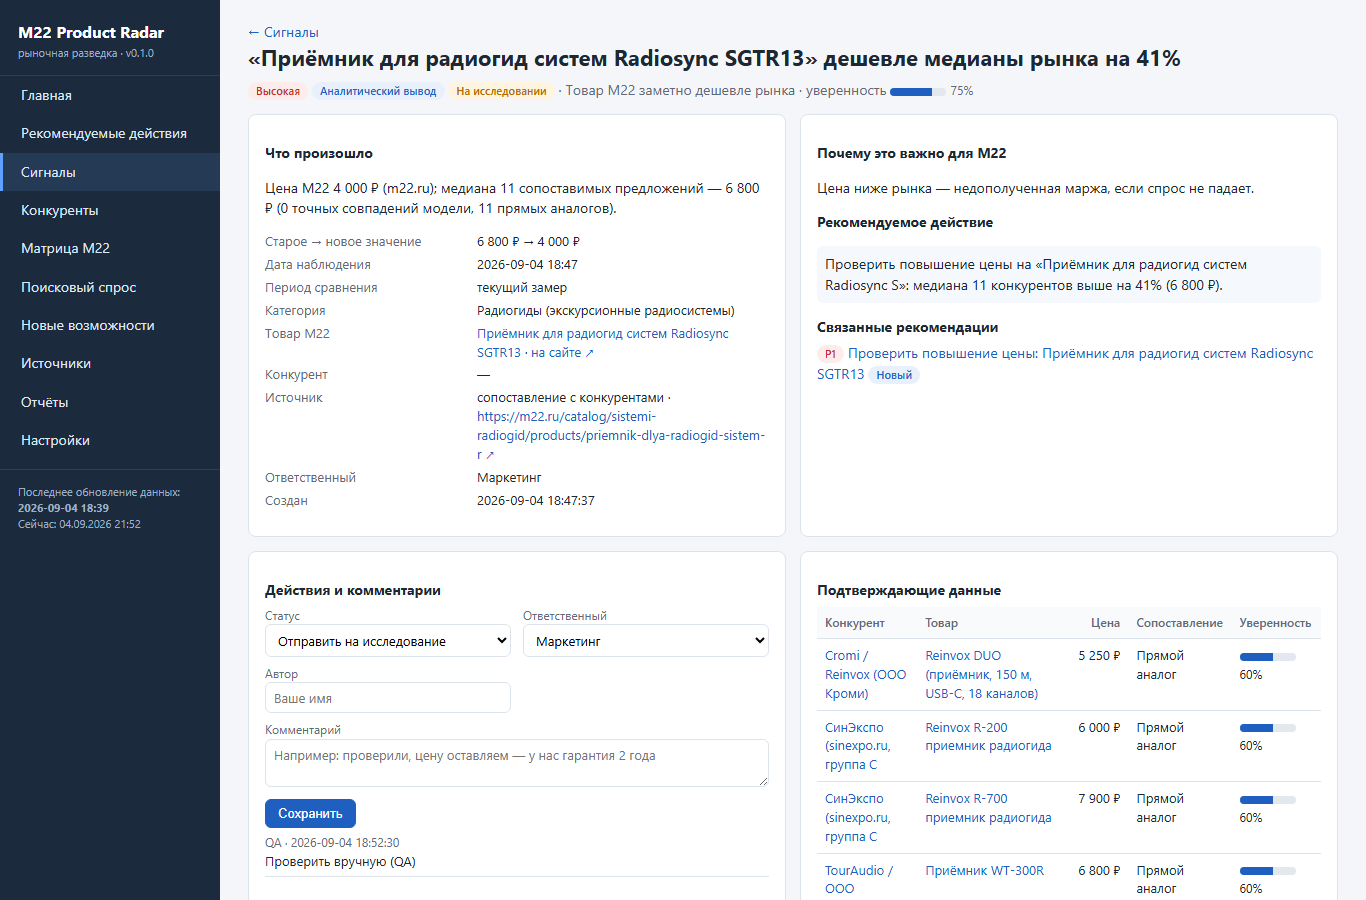
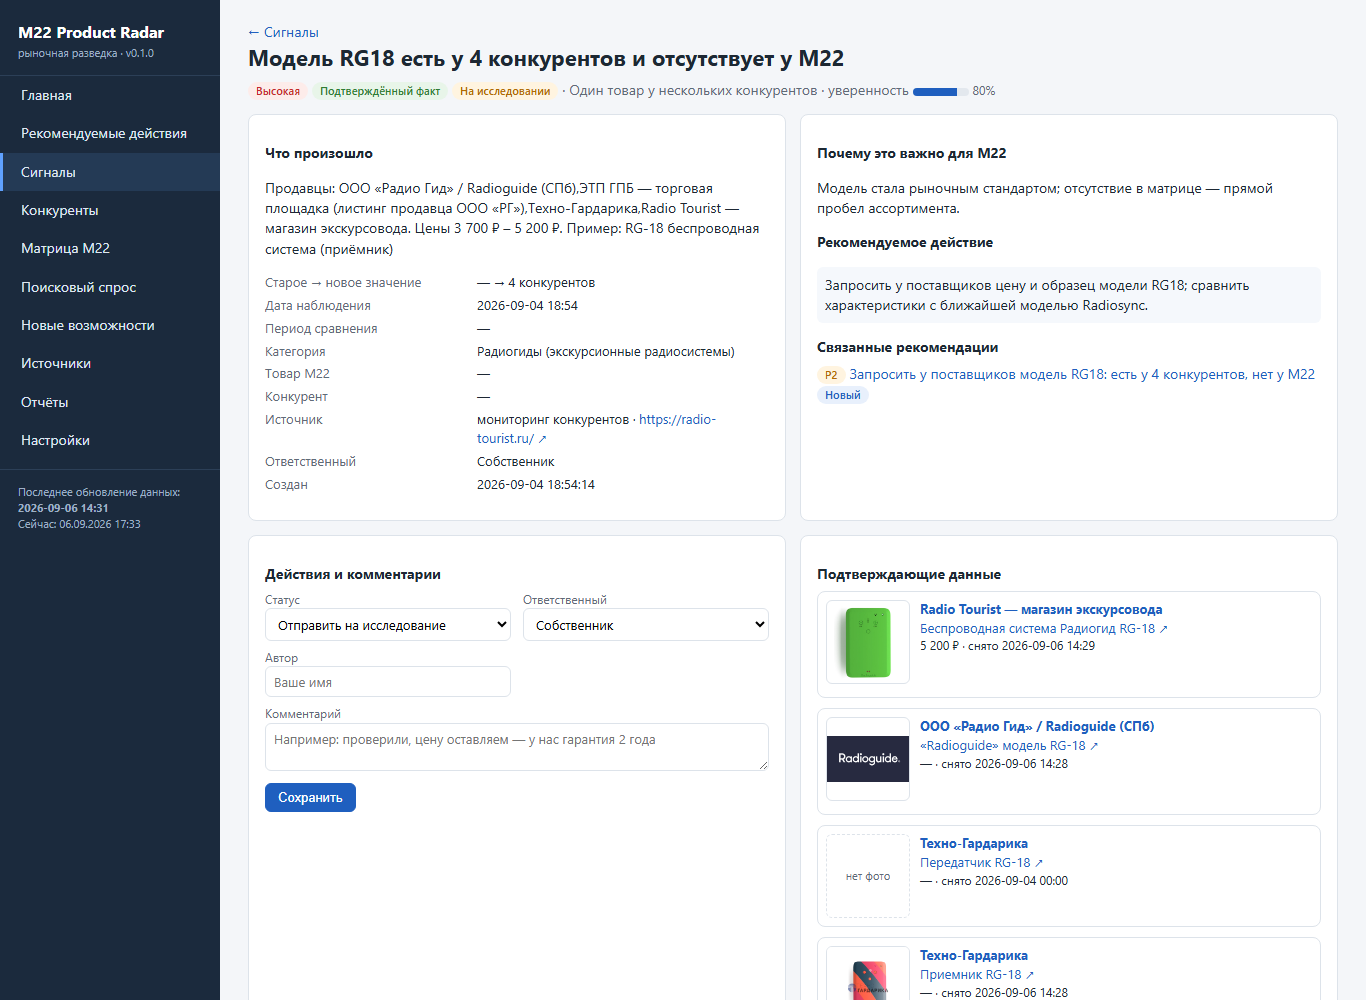
Fixed thumbnail size for competitor photos, cache-busting for static assets

diff --git a/radar/web/templates/signal_detail.html b/radar/web/templates/signal_detail.html
@@ -14,7 +14,7 @@
       <dt>Категория</dt><dd>{{ CATEGORY_NAMES.get(s.category_slug, s.category_slug or '—') }}</dd>
       <dt>Товар M22</dt><dd>{% if s.m22_product_id %}<a href="/matrix/{{ s.m22_product_id }}">{{ s.m22_name }}</a> · <a href="{{ s.m22_url }}" target="_blank" rel="noopener">на сайте ↗</a>{% else %}—{% endif %}</dd>
       <dt>Конкурент</dt><dd>{% if s.competitor_id %}<a href="/competitors/{{ s.competitor_id }}">{{ s.competitor_name }}</a>{% else %}—{% endif %}</dd>
-      {% if cp %}<dt>Товар конкурента</dt><dd>{% if cp.image_url %}<img src="{{ cp.image_url }}" alt="" class="thumb" referrerpolicy="no-referrer"> {% endif %}{{ cp.name }} — {{ cp.price | money }} · <a href="{{ cp.url }}" target="_blank" rel="noopener">страница ↗</a> · снято {{ cp.fetched_at | dt }}</dd>{% endif %}
+      {% if cp %}<dt>Товар конкурента</dt><dd>{% if cp.image_url %}<img src="{{ cp.image_url }}" alt="" class="thumb" referrerpolicy="no-referrer" width="48" height="48" style="width:48px;height:48px;object-fit:contain"> {% endif %}{{ cp.name }} — {{ cp.price | money }} · <a href="{{ cp.url }}" target="_blank" rel="noopener">страница ↗</a> · снято {{ cp.fetched_at | dt }}</dd>{% endif %}
       {% if s.query_text %}<dt>Запрос</dt><dd>{{ s.query_text }}</dd>{% endif %}
       <dt>Источник</dt><dd>{{ s.source or '—' }} {% if s.source_url %}· <a href="{{ s.source_url }}" target="_blank" rel="noopener">{{ s.source_url[:80] }} ↗</a>{% endif %}</dd>
       <dt>Ответственный</dt><dd>{{ s.owner or '—' }}</dd>
@@ -36,7 +36,7 @@
       <div class="offers">
         {% for it in evidence.get('items') %}
         <div class="offer">
-          {% if it.image %}<a href="{{ it.url }}" target="_blank" rel="noopener"><img src="{{ it.image }}" alt="" loading="lazy" referrerpolicy="no-referrer"></a>{% else %}<div class="noimg">нет фото</div>{% endif %}
+          {% if it.image %}<a href="{{ it.url }}" target="_blank" rel="noopener"><img src="{{ it.image }}" alt="" loading="lazy" referrerpolicy="no-referrer" width="84" height="84" style="width:84px;height:84px;object-fit:contain"></a>{% else %}<div class="noimg">нет фото</div>{% endif %}
           <div class="ob">
             <div><a href="/competitors/{{ it.competitor_id }}"><b>{{ it.competitor }}</b></a></div>
             <div><a href="{{ it.url }}" target="_blank" rel="noopener">{{ it.name[:80] }} ↗</a></div>

diff --git a/radar/web/static/style.css b/radar/web/static/style.css
@@ -54,7 +54,7 @@ details summary { cursor:pointer; color:var(--accent); font-size:13px; }
 @media (max-width:1200px) { .q-answer { grid-template-columns:1fr 1fr; } }
 .offers { display:grid; grid-template-columns:repeat(auto-fill, minmax(260px, 1fr)); gap:10px; }
 .offer { display:flex; gap:10px; border:1px solid var(--line); border-radius:8px; padding:8px; align-items:flex-start; }
-.offer img { width:84px; height:84px; object-fit:contain; background:#fff; border:1px solid var(--line); border-radius:6px; flex:0 0 84px; }
+.offer img { width:84px !important; height:84px !important; max-width:84px; object-fit:contain; background:#fff; border:1px solid var(--line); border-radius:6px; flex:0 0 84px; }
 .offer .noimg { width:84px; height:84px; flex:0 0 84px; border:1px dashed var(--line); border-radius:6px; font-size:11px; color:var(--muted); display:flex; align-items:center; justify-content:center; }
 .offer .ob { font-size:13px; min-width:0; word-break:break-word; }
 img.thumb { width:48px; height:48px; object-fit:contain; vertical-align:middle; border:1px solid var(--line); border-radius:4px; margin-right:6px; }

diff --git a/radar/web/templates/base.html b/radar/web/templates/base.html
@@ -4,7 +4,7 @@
 <meta charset="utf-8">
 <meta name="viewport" content="width=device-width, initial-scale=1">
 <title>{% block title %}M22 Product Radar{% endblock %}</title>
-<link rel="stylesheet" href="/static/style.css">
+<link rel="stylesheet" href="/static/style.css?v={{ asset_version }}">
 </head>
 <body>
 <div class="layout">
@@ -27,6 +27,6 @@
     {% block content %}{% endblock %}
   </main>
 </div>
-<script src="/static/app.js"></script>
+<script src="/static/app.js?v={{ asset_version }}"></script>
 </body>
 </html>

diff --git a/radar/web/app.py b/radar/web/app.py
@@ -73,7 +73,7 @@ def fmt_dt(v):
 
 templates.env.filters.update({"money": fmt_money, "pct": fmt_pct, "dt": fmt_dt, "uj": lambda t, d=None: db.uj(t, d)})
 templates.env.globals.update({"CATEGORY_NAMES": CATEGORY_NAMES, "SIGNAL_TYPES": SIGNAL_TYPES, "STATUS_NAMES": STATUS_NAMES, "SEV_NAMES": SEV_NAMES, "FACT_NAMES": FACT_NAMES,
-                              "MATCH_NAMES": MATCH_NAMES, "SOURCE_STATUS": SOURCE_STATUS, "MVP_NAMES": MVP_NAMES, "TYPE_NAMES": TYPE_NAMES, "app_version": "0.1.0"})
+                              "MATCH_NAMES": MATCH_NAMES, "SOURCE_STATUS": SOURCE_STATUS, "MVP_NAMES": MVP_NAMES, "TYPE_NAMES": TYPE_NAMES, "app_version": "0.1.0", "asset_version": str(int(__import__("time").time()))})
 
 
 def render(request: Request, name: str, **ctx) -> HTMLResponse:
